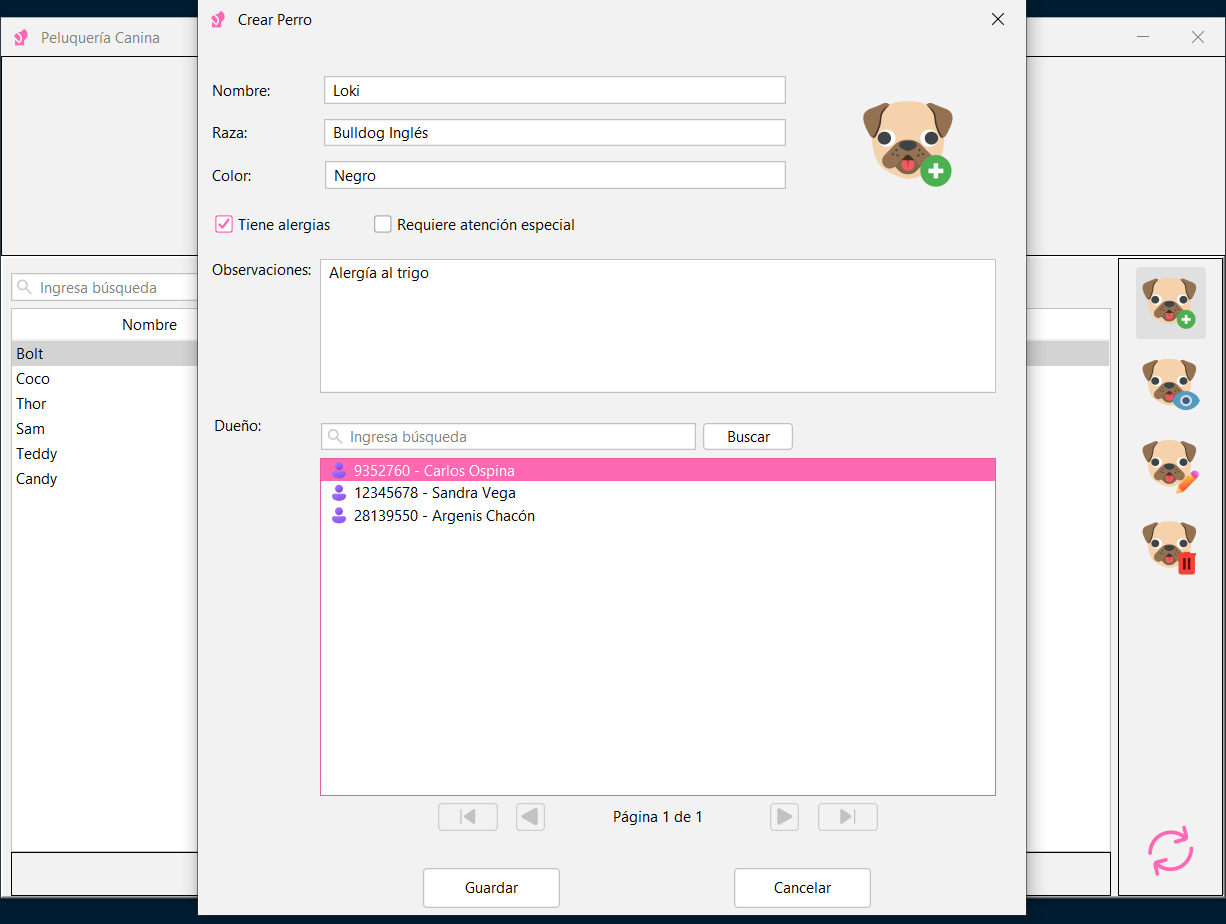
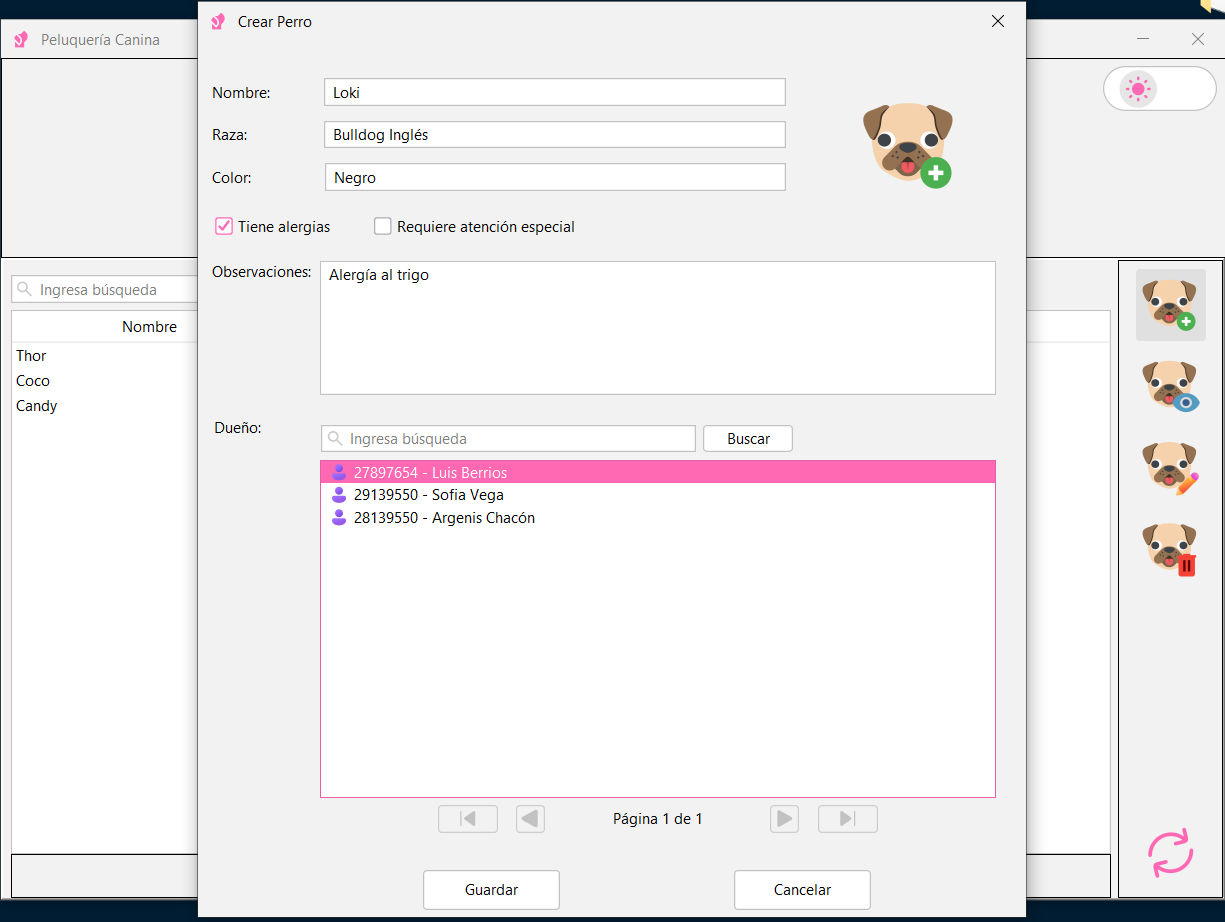
Feature/dark mode (#1)
* feat: implement dark/light theme switching logic and UI

- Add ThemeManager to handle theme persistence and toggling using FlatLaf.
- Add DarkLightSwitchIcon for animated toggle button rendering.
- Include SVG assets for theme icons.

* feat: implement dark/light theme switching

* fix: remove hardcoded background color from SplashScreen

* docs: update README screenshots and feature list

diff --git a/src/main/java/com/argenischacon/gui/main/MainFrame.java b/src/main/java/com/argenischacon/gui/main/MainFrame.java
@@ -4,6 +4,8 @@ import com.argenischacon.gui.common.GlassPane;
 import com.argenischacon.gui.dog.DogPanel;
 import com.argenischacon.gui.owner.OwnerPanel;
 import com.argenischacon.jpa.JpaUtil;
+import com.argenischacon.util.ThemeManager;
+import com.formdev.flatlaf.FlatClientProperties;
 import com.formdev.flatlaf.extras.FlatSVGIcon;
 import org.slf4j.Logger;
 import org.slf4j.LoggerFactory;
@@ -91,6 +93,12 @@ public class MainFrame extends javax.swing.JFrame {
         cardLayout.show(contentPanel, "OWNER");
     }//GEN-LAST:event_ownersButtonActionPerformed
 
+    private void switchThemeToggleButtonActionPerformed(java.awt.event.ActionEvent evt) {//GEN-FIRST:event_switchThemeToggleButtonActionPerformed
+        Timer timer = new Timer(500, e -> ThemeManager.toggleTheme());
+        timer.setRepeats(false);
+        timer.start();
+    }//GEN-LAST:event_switchThemeToggleButtonActionPerformed
+
     private void formWindowClosing(java.awt.event.WindowEvent evt) {//GEN-FIRST:event_formWindowClosing
         JpaUtil.shutdown();
     }//GEN-LAST:event_formWindowClosing
@@ -133,11 +141,13 @@ public class MainFrame extends javax.swing.JFrame {
     private void initComponents() {
 
         buttonGroup = new javax.swing.ButtonGroup();
+        darkLightSwitchIcon = new com.argenischacon.gui.common.DarkLightSwitchIcon();
         mainPanel = new javax.swing.JPanel();
         contentPanel = new javax.swing.JPanel();
         menuPanel = new javax.swing.JPanel();
         ownersButton = new javax.swing.JToggleButton();
         dogsButton = new javax.swing.JToggleButton();
+        switchThemeToggleButton = new javax.swing.JToggleButton();
 
         setDefaultCloseOperation(javax.swing.WindowConstants.EXIT_ON_CLOSE);
         addWindowListener(new java.awt.event.WindowAdapter() {
@@ -164,25 +174,40 @@ public class MainFrame extends javax.swing.JFrame {
         dogsButton.putClientProperty("JButton.buttonType", "roundRect");
         dogsButton.addActionListener(this::dogsButtonActionPerformed);
 
+        switchThemeToggleButton.setIcon(darkLightSwitchIcon);
+        switchThemeToggleButton.setSelected(ThemeManager.isDark());
+        switchThemeToggleButton.putClientProperty(FlatClientProperties.STYLE, """
+                arc:999;
+                borderWidth:1;
+                innerFocusWidth:0
+                """);
+        switchThemeToggleButton.addActionListener(this::switchThemeToggleButtonActionPerformed);
+
         javax.swing.GroupLayout menuPanelLayout = new javax.swing.GroupLayout(menuPanel);
         menuPanel.setLayout(menuPanelLayout);
         menuPanelLayout.setHorizontalGroup(
             menuPanelLayout.createParallelGroup(javax.swing.GroupLayout.Alignment.LEADING)
-            .addGroup(javax.swing.GroupLayout.Alignment.TRAILING, menuPanelLayout.createSequentialGroup()
+            .addGroup(menuPanelLayout.createSequentialGroup()
                 .addContainerGap(225, Short.MAX_VALUE)
                 .addComponent(dogsButton, javax.swing.GroupLayout.PREFERRED_SIZE, 213, javax.swing.GroupLayout.PREFERRED_SIZE)
                 .addGap(64, 64, 64)
                 .addComponent(ownersButton, javax.swing.GroupLayout.PREFERRED_SIZE, 213, javax.swing.GroupLayout.PREFERRED_SIZE)
-                .addGap(263, 263, 263))
+                .addGap(166, 166, 166)
+                .addComponent(switchThemeToggleButton, javax.swing.GroupLayout.PREFERRED_SIZE, 91, javax.swing.GroupLayout.PREFERRED_SIZE)
+                .addContainerGap())
         );
         menuPanelLayout.setVerticalGroup(
             menuPanelLayout.createParallelGroup(javax.swing.GroupLayout.Alignment.LEADING)
-            .addGroup(javax.swing.GroupLayout.Alignment.TRAILING, menuPanelLayout.createSequentialGroup()
+            .addGroup(menuPanelLayout.createSequentialGroup()
                 .addContainerGap(42, Short.MAX_VALUE)
                 .addGroup(menuPanelLayout.createParallelGroup(javax.swing.GroupLayout.Alignment.BASELINE)
                     .addComponent(dogsButton, javax.swing.GroupLayout.PREFERRED_SIZE, 79, javax.swing.GroupLayout.PREFERRED_SIZE)
                     .addComponent(ownersButton, javax.swing.GroupLayout.PREFERRED_SIZE, 79, javax.swing.GroupLayout.PREFERRED_SIZE))
                 .addGap(37, 37, 37))
+            .addGroup(menuPanelLayout.createSequentialGroup()
+                .addContainerGap()
+                .addComponent(switchThemeToggleButton)
+                .addContainerGap(javax.swing.GroupLayout.DEFAULT_SIZE, Short.MAX_VALUE))
         );
 
         javax.swing.GroupLayout mainPanelLayout = new javax.swing.GroupLayout(mainPanel);
@@ -219,9 +244,11 @@ public class MainFrame extends javax.swing.JFrame {
     // Variables declaration - do not modify//GEN-BEGIN:variables
     private javax.swing.ButtonGroup buttonGroup;
     private javax.swing.JPanel contentPanel;
+    private com.argenischacon.gui.common.DarkLightSwitchIcon darkLightSwitchIcon;
     private javax.swing.JToggleButton dogsButton;
     private javax.swing.JPanel mainPanel;
     private javax.swing.JPanel menuPanel;
     private javax.swing.JToggleButton ownersButton;
+    private javax.swing.JToggleButton switchThemeToggleButton;
     // End of variables declaration//GEN-END:variables
 }

diff --git a/src/main/java/com/argenischacon/gui/common/DarkLightSwitchIcon.java b/src/main/java/com/argenischacon/gui/common/DarkLightSwitchIcon.java
@@ -1,0 +1,92 @@
+package com.argenischacon.gui.common;
+
+import com.formdev.flatlaf.extras.FlatSVGIcon;
+import com.formdev.flatlaf.ui.FlatUIUtils;
+import com.formdev.flatlaf.util.AnimatedIcon;
+import com.formdev.flatlaf.util.ColorFunctions;
+import com.formdev.flatlaf.util.UIScale;
+import org.slf4j.Logger;
+import org.slf4j.LoggerFactory;
+
+import javax.swing.*;
+import java.awt.*;
+import java.awt.geom.RoundRectangle2D;
+import java.net.URL;
+
+public class DarkLightSwitchIcon implements AnimatedIcon {
+
+    private static final Logger logger = LoggerFactory.getLogger(DarkLightSwitchIcon.class);
+
+    private final int iconGap = 3;
+    private final int centerSpace = 5;
+
+    private final Icon darkIcon;
+    private final Icon lightIcon;
+
+    private final Color darkColor = new Color(80, 80, 80);
+    private final Color lightColor = new Color(230, 230, 230);
+
+    public DarkLightSwitchIcon() {
+        this.darkIcon = loadIcon("/icons/theme/dark.svg");
+        this.lightIcon = loadIcon("/icons/theme/light.svg");
+    }
+
+    private static Icon loadIcon(String path) {
+        try {
+            URL url = DarkLightSwitchIcon.class.getResource(path);
+            if (url != null) return new FlatSVGIcon(url);
+            logger.warn("Icon resource not found: {}", path);
+        } catch (Exception e) {
+            logger.error("Failed to load icon: {}", path, e);
+        }
+        return null;
+    }
+
+    @Override
+    public void paintIconAnimated(Component c, Graphics g, int x, int y, float animatedValue) {
+        Graphics2D g2 = (Graphics2D) g.create();
+        FlatUIUtils.setRenderingHints(g2);
+        Color color = ColorFunctions.mix(darkColor, lightColor, animatedValue);
+        int size = getIconHeight();
+        int width = getIconWidth();
+        float arc = Math.min(FlatUIUtils.getBorderArc((JComponent) c), size);
+        float animatedX = x + (width - size) * animatedValue;
+
+        g2.setColor(color);
+        g2.fill(new RoundRectangle2D.Double(animatedX, y, size, size, arc, arc));
+        float darkY = (y - size + (animatedValue * size));
+        float lightY = y + animatedValue * size;
+        g2.setClip(new Rectangle(x, y, width, size));
+        paintIcon(c, (Graphics2D) g.create(), animatedX, darkY, darkIcon, animatedValue);
+        paintIcon(c, (Graphics2D) g.create(), animatedX, lightY, lightIcon, 1f - animatedValue);
+        g2.dispose();
+    }
+
+    public void paintIcon(Component c, Graphics2D g, float x, float y, Icon icon, float alpha) {
+        int gap = UIScale.scale(iconGap);
+        g.translate(x, y);
+        g.setComposite(AlphaComposite.SrcOver.derive(alpha));
+        icon.paintIcon(c, g, gap, gap);
+        g.dispose();
+    }
+
+    @Override
+    public int getAnimationDuration() {
+        return 500;
+    }
+
+    @Override
+    public float getValue(Component c) {
+        return ((AbstractButton) c).isSelected() ? 1 : 0;
+    }
+
+    @Override
+    public int getIconWidth() {
+        return darkIcon.getIconWidth() + lightIcon.getIconWidth() + UIScale.scale(centerSpace) + (UIScale.scale(iconGap) * 4);
+    }
+
+    @Override
+    public int getIconHeight() {
+        return Math.max(darkIcon.getIconHeight(), lightIcon.getIconHeight()) + UIScale.scale(iconGap) * 2;
+    }
+}

diff --git a/src/main/java/com/argenischacon/util/ThemeManager.java b/src/main/java/com/argenischacon/util/ThemeManager.java
@@ -1,0 +1,75 @@
+package com.argenischacon.util;
+
+import com.formdev.flatlaf.FlatDarkLaf;
+import com.formdev.flatlaf.FlatLaf;
+import com.formdev.flatlaf.FlatLightLaf;
+import com.formdev.flatlaf.extras.FlatAnimatedLafChange;
+import org.slf4j.Logger;
+import org.slf4j.LoggerFactory;
+
+import javax.swing.*;
+import java.util.prefs.Preferences;
+
+public class ThemeManager {
+    private static final Logger logger = LoggerFactory.getLogger(ThemeManager.class);
+
+    private static final Preferences prefs = Preferences.userNodeForPackage(ThemeManager.class);
+    private static final String KEY_THEME = "theme";
+    private static final String THEME_LIGHT = "light";
+    private static final String THEME_DARK = "dark";
+
+    private ThemeManager(){
+
+    }
+
+    public static void applySavedTheme() {
+        String saved = prefs.get(KEY_THEME, THEME_LIGHT);
+
+        try {
+            if (THEME_DARK.equals(saved)) {
+                FlatDarkLaf.setup();
+            } else{
+                FlatLightLaf.setup();
+            }
+        } catch (Exception e) {
+            logger.error("Failed to apply saved theme", e);
+            //fallback
+            FlatLightLaf.setup();
+        }
+    }
+
+    public static void saveTheme(boolean isDark){
+        prefs.put(KEY_THEME, isDark ? THEME_DARK : THEME_LIGHT);
+    }
+
+    public static boolean isDark(){
+        return UIManager.getLookAndFeel() instanceof FlatDarkLaf;
+    }
+
+    public static void toggleTheme(){
+        boolean newThemeIsDark = !isDark();
+        try{
+            FlatAnimatedLafChange.showSnapshot();
+            if(newThemeIsDark){
+                UIManager.setLookAndFeel(new FlatDarkLaf());
+            }else{
+                UIManager.setLookAndFeel(new FlatLightLaf());
+            }
+            FlatLaf.updateUI();
+            FlatAnimatedLafChange.hideSnapshotWithAnimation();
+            saveTheme(newThemeIsDark);
+        } catch (Exception e) {
+            logger.error("Failed to toggle theme", e);
+        }
+    }
+
+    public static void resetThemePreference(){
+        try{
+            prefs.remove(KEY_THEME);
+            prefs.flush();
+            applySavedTheme();
+        } catch (Exception e){
+            logger.error("Failed to reset theme preference", e);
+        }
+    }
+}

diff --git a/src/main/java/com/argenischacon/DogGrooming.java b/src/main/java/com/argenischacon/DogGrooming.java
@@ -3,8 +3,8 @@ package com.argenischacon;
 import com.argenischacon.jpa.DataDirectoryInitializer;
 import com.argenischacon.splash.SplashScreen;
 import com.argenischacon.splash.SplashWorker;
+import com.argenischacon.util.ThemeManager;
 import com.formdev.flatlaf.FlatLaf;
-import com.formdev.flatlaf.FlatLightLaf;
 import com.argenischacon.exception.GlobalExceptionHandler;
 import com.argenischacon.exception.SwingExceptionEventQueue;
 import com.argenischacon.gui.main.MainFrame;
@@ -30,7 +30,7 @@ public class DogGrooming {
         ));
 
         // Install theme
-        FlatLightLaf.setup();
+        ThemeManager.applySavedTheme();
 
         SwingUtilities.invokeLater(() -> {
             // Specific exception handler for Swing events

diff --git a/src/main/java/com/argenischacon/splash/SplashScreen.java b/src/main/java/com/argenischacon/splash/SplashScreen.java
@@ -28,7 +28,6 @@ public class SplashScreen extends JWindow {
     private void initComponents() {
         JPanel contentPanel = new JPanel(new BorderLayout(10, 10));
         contentPanel.setBorder(BorderFactory.createEmptyBorder(15, 15, 15, 15));
-        contentPanel.setBackground(new Color(255, 255, 255));
 
         logoLabel = new JLabel();
         logoLabel.setHorizontalAlignment(SwingConstants.CENTER);

diff --git a/README.md b/README.md
@@ -7,24 +7,25 @@
 ![Database](https://img.shields.io/badge/Database-H2-green?logo=h2database)
 ![License](https://img.shields.io/badge/License-MIT-green)
 
-Una aplicación de escritorio portable para la gestión de peluquería canina, desarrollada en Java con interfaz gráfica Swing moderna. Permite administrar dueños y sus mascotas, con una base de datos embebida H2 para portabilidad completa.
+Una aplicación de escritorio portable para la gestión de peluquería canina, desarrollada en Java con interfaz gráfica
+Swing moderna. Permite administrar dueños y sus mascotas, con una base de datos embebida H2 para portabilidad completa.
 
 ## Capturas de Pantalla
 
-|               Splash Screen                |          Pantalla Principal           |
-|:------------------------------------------:|:-------------------------------------:|
-| ![Splash Screen](assets/splash_screen.png) | ![Crear Perro](assets/main_frame.png) |
+|               Splash Screen                |              Modo claro              |             Modo oscuro             |
+|:------------------------------------------:|:------------------------------------:|:-----------------------------------:| 
+| ![Splash Screen](assets/splash_screen.png) | ![Modo claro](assets/main_light.png) | ![Modo claro](assets/main_dark.png) | 
 
-
-|             Crear Perro               |             Ver Dueño               |
-|:-------------------------------------:|:-----------------------------------:|
-| ![Crear Perro](assets/create_dog.png) | ![Ver Dueño](assets/view_owner.png) |
+|              Crear Perro              |              Ver Dueño              |             Validaciones              | 
+|:-------------------------------------:|:-----------------------------------:|:-------------------------------------:|
+| ![Crear Perro](assets/create_dog.png) | ![Ver Dueño](assets/view_owner.png) | ![Validación](assets/validations.png) |
 
 ## Características
 
 - **Gestión de Dueños**: Crear, editar, ver y eliminar dueños.
 - **Gestión de Perros**: Crear, editar, ver y eliminar perros.
 - **Interfaz Moderna**: Utiliza FlatLaf para un look and feel moderno y personalizable.
+- **Cambio de Tema**: Funcionalidad para alternar entre modo claro y oscuro.
 - **Base de Datos Embebida**: H2 database para portabilidad sin necesidad de servidor externo.
 - **Validaciones**: Integración con Jakarta Validation para datos consistentes.
 - **Logging**: Configurado con Logback para seguimiento de eventos.
@@ -41,20 +42,24 @@ Una aplicación de escritorio portable para la gestión de peluquería canina, d
 - **Lombok**: Reducción de boilerplate.
 - **MapStruct**: Mapeo de objetos.
 - **JCalendar**: Componentes de calendario.
-- **Spinner Progress**: Componente de carga animado por [DJ-Raven](https://github.com/DJ-Raven/spinner-progress) (MIT License).
+- **Spinner Progress**: Componente de carga animado por [DJ-Raven](https://github.com/DJ-Raven/spinner-progress) (MIT
+  License).
 
 ## Descargas y Releases
 
-Descarga la versión más reciente desde la sección **[Releases](https://github.com/argenischacon/dog-grooming/releases)** del repositorio.
+Descarga la versión más reciente desde la sección **[Releases](https://github.com/argenischacon/dog-grooming/releases)**
+del repositorio.
 
-- **DogGrooming-1.0.0.msi** (recomendado para Windows): Instalador nativo con progreso visible, opción para elegir carpeta de instalación, acceso directo en el Escritorio y entrada en el Menú Inicio.
+- **DogGrooming-1.0.0.msi** (recomendado para Windows): Instalador nativo con progreso visible, opción para elegir
+  carpeta de instalación, acceso directo en el Escritorio y entrada en el Menú Inicio.
 - **dog-grooming-1.0.0.jar** (modo portable): Ejecuta la app sin instalación en cualquier carpeta o USB:
   ```bash
   java -jar dog-grooming-1.0.0.jar
   ```
   (Requiere Java 21 o superior instalado en el sistema).
 
-La base de datos se crea automáticamente en el directorio home del usuario (`~/dog-grooming/data/doggrooming.mv.db` o similar) para evitar problemas de permisos.
+La base de datos se crea automáticamente en el directorio home del usuario (`~/dog-grooming/data/doggrooming.mv.db` o
+similar) para evitar problemas de permisos.
 
 ## Instalación desde Fuente (para desarrollo o contribución)
 
@@ -89,7 +94,8 @@ La base de datos se crea automáticamente en el directorio home del usuario (`~/
 
 ## Uso
 
-La aplicación se ejecuta como una aplicación de escritorio. Al iniciar, muestra una pantalla de splash mientras inicializa la base de datos. Luego, presenta la interfaz principal para gestionar dueños y perros.
+La aplicación se ejecuta como una aplicación de escritorio. Al iniciar, muestra una pantalla de splash mientras
+inicializa la base de datos. Luego, presenta la interfaz principal para gestionar dueños y perros.
 
 - **Agregar Dueño**: Usa el panel de dueños para crear nuevos registros.
 - **Agregar Perro**: Asocia perros a dueños existentes.
@@ -107,6 +113,5 @@ Este proyecto está bajo la Licencia MIT. Ver el archivo [LICENSE](LICENSE) para
 
 [![LinkedIn](https://img.shields.io/badge/LinkedIn-Argenis_Chacon-0077B5?style=for-the-badge&logo=linkedin&logoColor=white)](https://www.linkedin.com/in/argenischaconb)
 [![GitHub](https://img.shields.io/badge/GitHub-@argenischacon-181717?style=for-the-badge&logo=github&logoColor=white)](https://github.com/argenischacon)
-
 
 ⭐ Si este proyecto te resultó útil, ¡dale una estrella!
